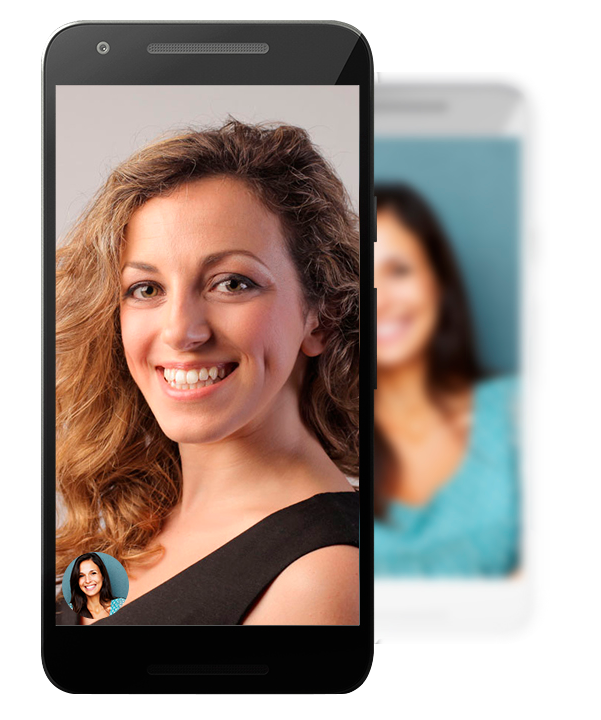
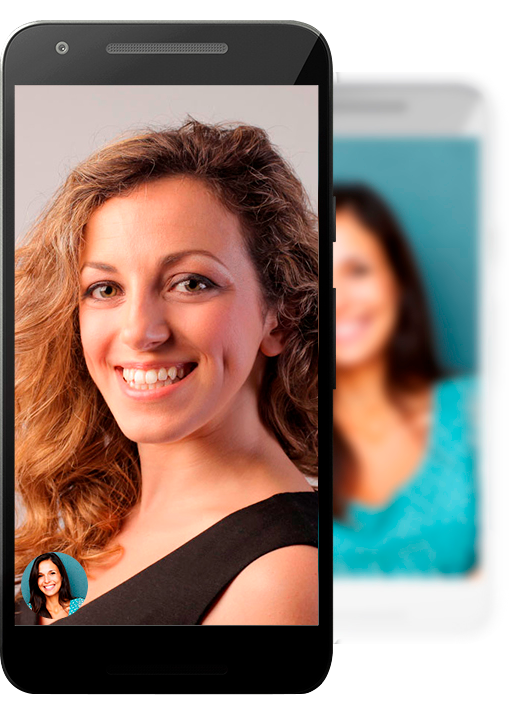
./*.*

diff --git a/style.css b/style.css
@@ -171,6 +171,11 @@
 
 ._e {
     grid-column: 1/2;
+    width: 100%;
+    height: 100%;
+    display: flex;
+    justify-content: flex-end;
+    align-items: center;
 }
 
 ._e img {
@@ -186,7 +191,7 @@
     width: 100%;
     height: 100%;
     display: flex;
-    justify-content: center;
+    justify-content: flex-start;
     align-items: center;
 }
 
@@ -216,11 +221,18 @@
 
 ._h {
     grid-column: 2/3;
+    width: 100%;
+    height: 100%;
+    display: flex;
+    justify-content: flex-start;
+    align-items: center;
 }
 
 ._h img {
-    width: 580px;
+    width: auto;
+    height: 570px;
     max-width: 100%;
+    margin: 50px 0;
 }
 
 
